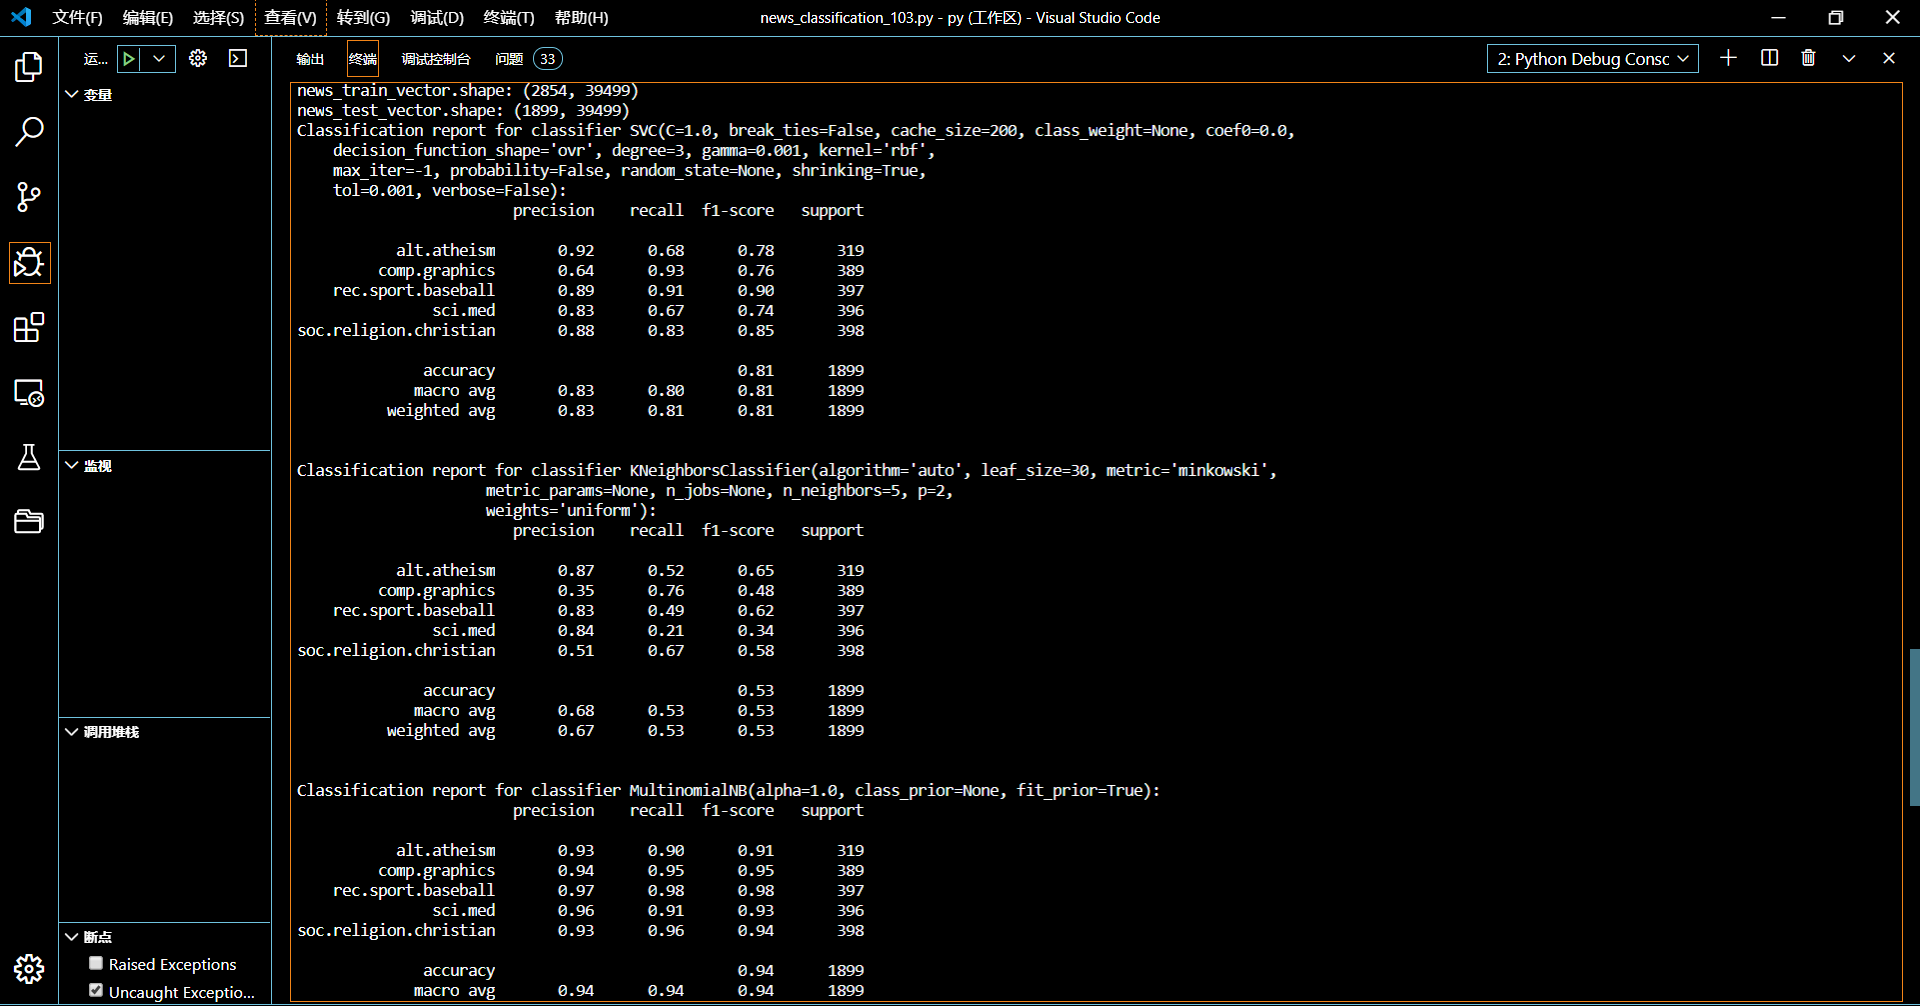
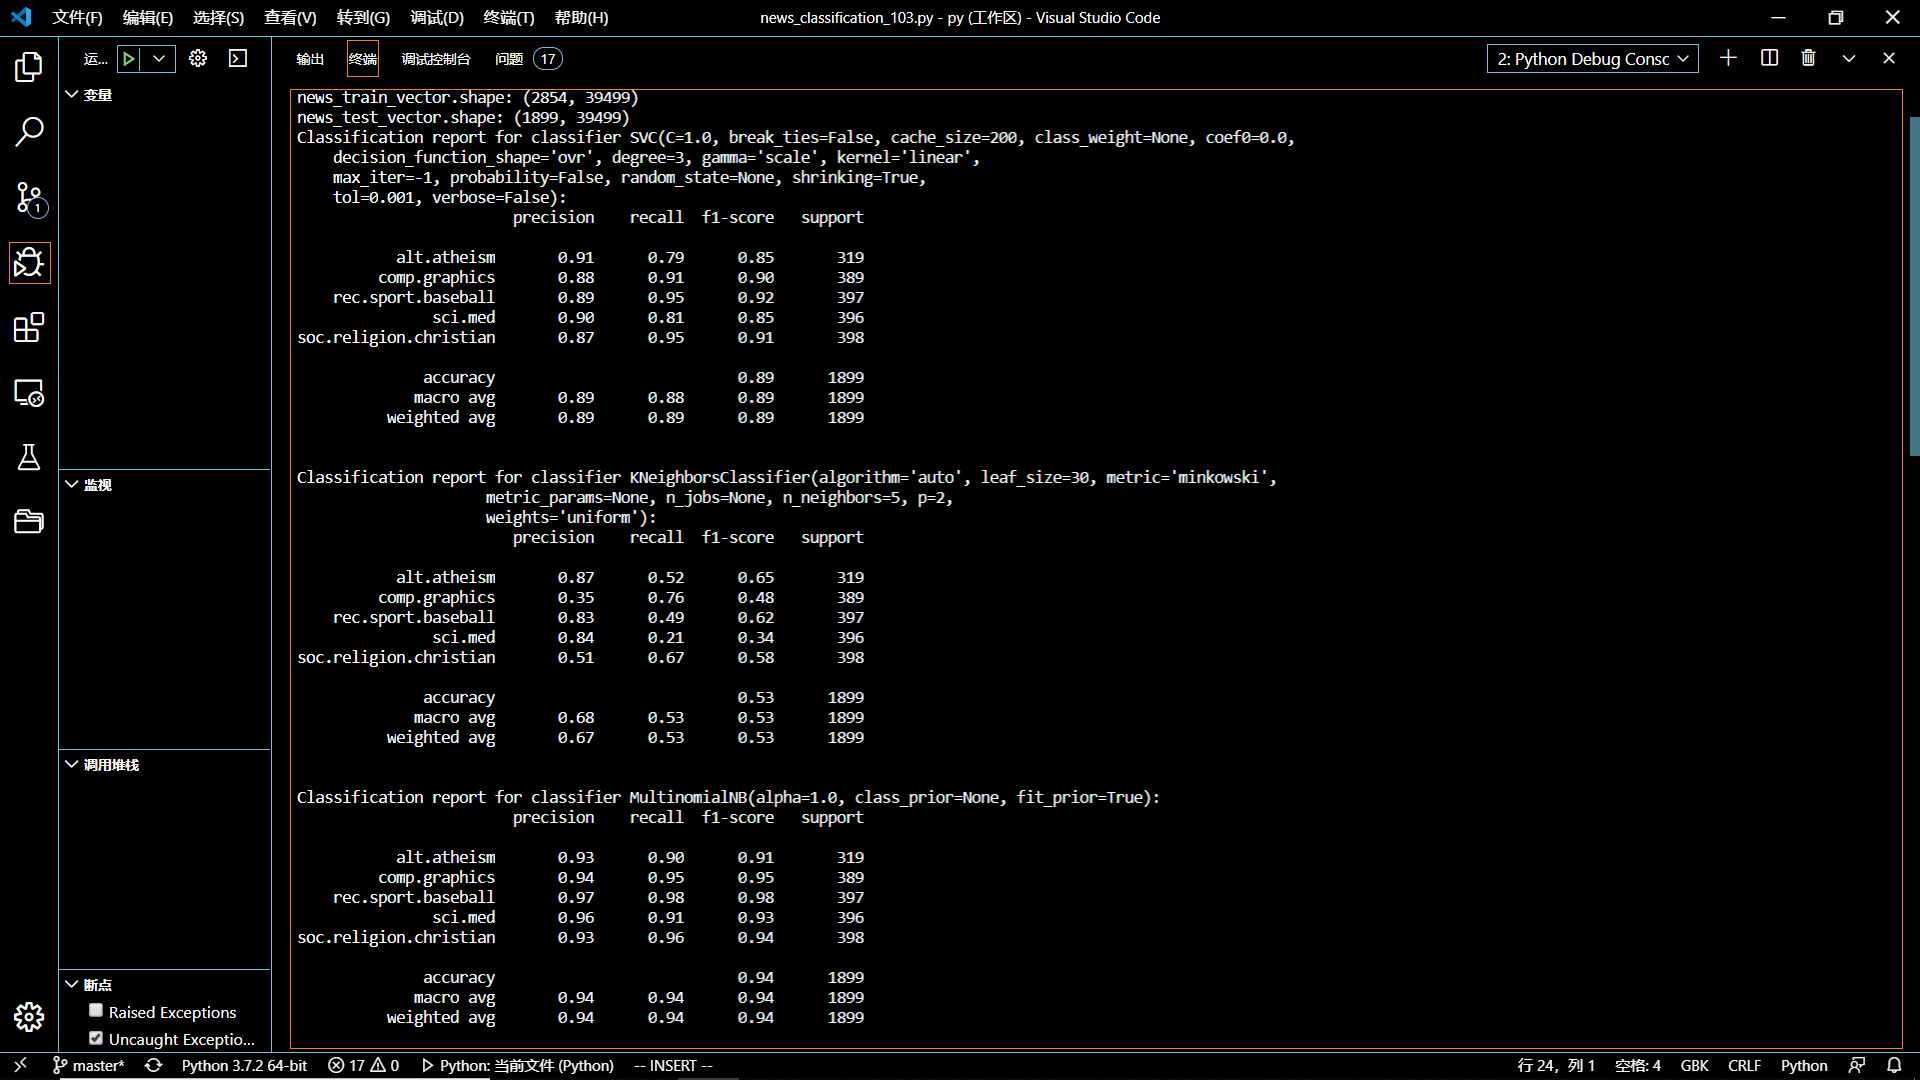
edit sth

diff --git a/news_classification_103.py b/news_classification_103.py
@@ -23,7 +23,7 @@ print("news_train_vector.shape:",cv_news_train_vector.shape)
 cv_news_test_vector = count_vectorizer.transform(newsgroups_test.data)
 print("news_test_vector.shape:",cv_news_test_vector.shape)
 
-svc_clf = svm.SVC(gamma=0.001)
+svc_clf = svm.SVC(kernel="linear")
 svc_clf.fit(cv_news_train_vector,newsgroups_train.target)
 cv_svc_predict = svc_clf.predict(cv_news_test_vector)
 print("Classification report for classifier %s:\n%s\n" % (svc_clf,metrics.classification_report(newsgroups_test.target,cv_svc_predict,target_names=newsgroups_test.target_names)))
@@ -46,7 +46,7 @@ print("news_train_vectorizer.shape",tfidf_news_train_vector.shape)
 tfidf_news_test_vector = tfidf_vectorizer.transform(newsgroups_test.data)
 print("news_test_vectorizer.shape",tfidf_news_train_vector.shape)
 
-svc_clf2 = svm.SVC(gamma=0.0001)
+svc_clf2 = svm.SVC(kernel="linear")
 svc_clf2.fit(tfidf_news_train_vector,newsgroups_train.target)
 tfidf_svc_predict2 = svc_clf2.predict(tfidf_news_test_vector)
 print("Classification report for classifier %s:\n%s\n" % (svc_clf2,metrics.classification_report(newsgroups_test.target,tfidf_svc_predict2,target_names=newsgroups_test.target_names)))
